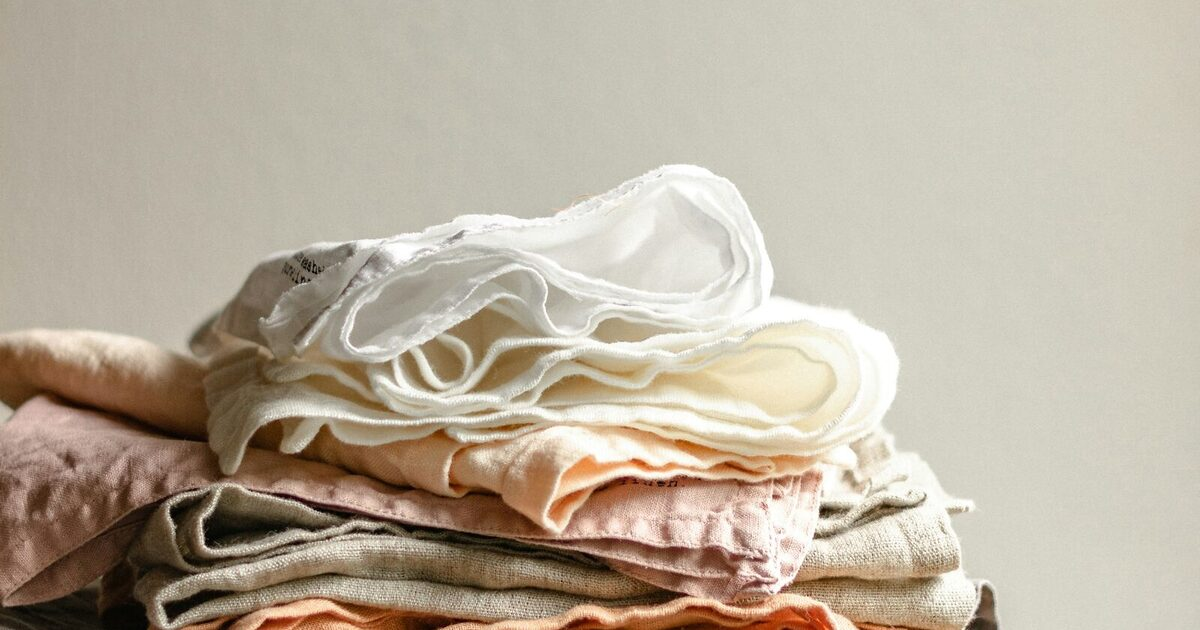
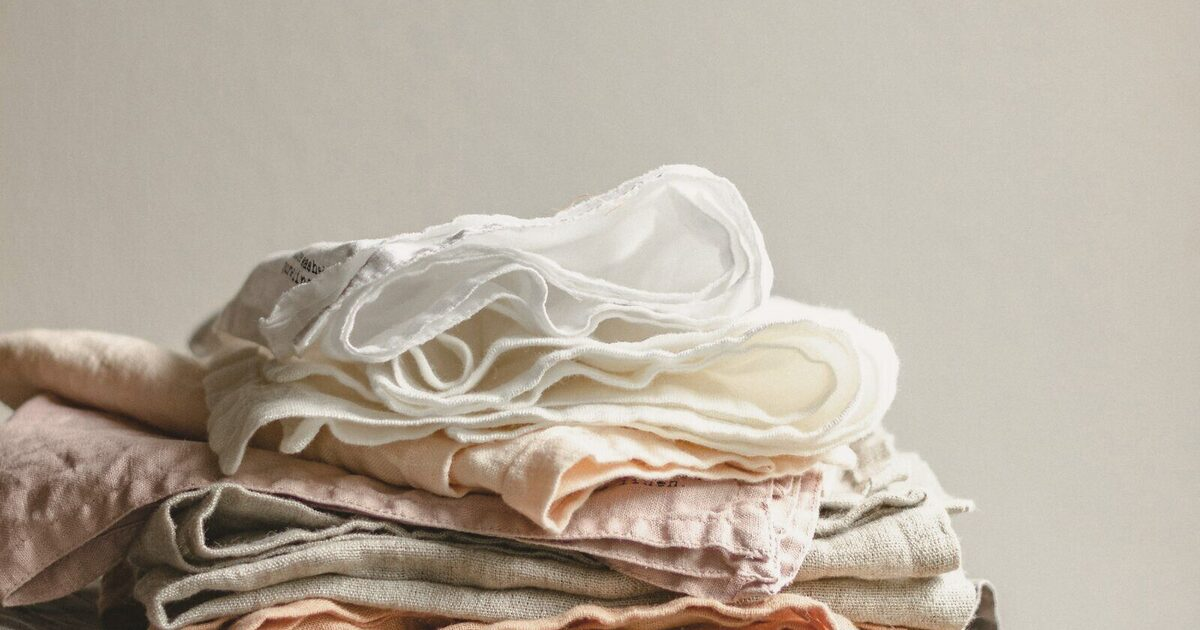
Lighter home page and one consistent photo treatment
Home: 1,134 words in 11 sections down to 462 in 6
- Hero, Meet Kayla (merged with the welcome intro), What I help with (six linked
  areas plus one line on methods), Three simple steps (pricing folded in),
  Instagram, Contact
- Cut the repeated butterfly story band, the duplicate modality list, the mothers
  checklist band, and the separate fees row (all live on their own pages)

Photos
- One shared grade on every hero (muted saturation, warm tint, softened blacks)
- One shared overlay strength on every inner-page hero

diff --git a/index.html b/index.html
@@ -22,7 +22,7 @@
 <script type="application/ld+json">
 {"@context":"https://schema.org","@type":"MedicalBusiness","name":"Mariposa Mental Wellness","description":"Trauma-informed therapy for adults in Mesa, AZ. IFS, EMDR, DBT, somatic therapy. Trauma/CPTSD, anxiety, perfectionism, ADHD, OCD, people-pleasing.","url":"https://mariposamentalwellness.com","telephone":"(480) 605-0846","priceRange":"$165","image":"https://mariposamentalwellness.com/images/og/home.jpg","address":{"@type":"PostalAddress","streetAddress":"1845 S Dobson Rd Suite 101","addressLocality":"Mesa","addressRegion":"AZ","postalCode":"85202","addressCountry":"US"},"geo":{"@type":"GeoCoordinates","latitude":33.3922,"longitude":-111.8437},"employee":{"@type":"Person","name":"Kayla Martinez","jobTitle":"Licensed Professional Counselor","description":"MS, LPC, licensed in Arizona (LPC-24196). IFS, EMDR, trauma therapy."},"sameAs":["https://www.instagram.com/mariposamentalwellness","https://www.psychologytoday.com/us/therapists/kayla-martinez-mesa-az/1091543"]}
 </script>
-<link rel="preload" as="image" href="images/hero-butterfly-wide.jpg" fetchpriority="high">
+<link rel="preload" as="image" href="images/hero-butterfly-wide-g.jpg" fetchpriority="high">
 <link rel="stylesheet" href="css/style.css">
 </head>
 <body>
@@ -76,30 +76,12 @@
   <div class="hero-inner">
     <h1 class="hero-headline reveal">You're not lost.<br>You're in the <em>in&#8209;between.</em></h1>
     <div class="hero-right reveal">
-      <p>There's a phase before the butterfly: not a caterpillar anymore, but not yet wings. That tender, uncertain middle is where the real change happens, and it's the stretch Mariposa was built for.</p>
+      <p>There's a phase before the butterfly: not a caterpillar anymore, not yet wings. That middle stretch is where real change happens, and it's what Mariposa was built for.</p>
       <a href="/contact/" class="btn-primary">Book a Free Consultation</a>
     </div>
   </div>
 </section>
 <div class="strip">Now accepting self-pay clients &nbsp;&middot;&nbsp; Mesa, AZ + Virtual &nbsp;&middot;&nbsp; <a href="tel:+14806050846">(480) 605-0846</a> &nbsp;&middot;&nbsp; Free 15-min consultation</div>
-<section id="about">
-  <div class="section">
-    <div class="about-grid">
-      <div class="about-img reveal">
-        <img width="675" height="1200" src="images/room-rust.jpg" alt="A rust-colored armchair and reading lamp in a sunlit room" loading="lazy">
-        <div class="about-img-accent"></div>
-        <div class="about-img-badge">Trauma-Informed &amp; Compassion-Led</div>
-      </div>
-      <div class="reveal">
-        <p class="eyebrow">Welcome</p>
-        <h2 class="section-title">A space where you're allowed to <em>not have it all together</em></h2>
-        <p class="body-text">Opening up to a stranger takes courage, and I don't take that trust lightly. My work is relational and grounded in IFS and trauma-informed care. We'll look underneath the patterns, figure out why they formed in the first place, and build the kind of self-trust that lets change actually stick.</p>
-        <p class="body-text">Maybe it's anxiety that won't quit. Maybe it's something from years ago you've worked hard not to look at, or a tiredness you can't put a name to. All of it is welcome here.</p>
-        <a href="/about/" class="btn-outline" style="margin-top:10px;">Meet Kayla</a>
-      </div>
-    </div>
-  </div>
-</section>
 <section class="kayla-section" id="about-kayla">
   <div class="kayla-inner">
     <div class="kayla-photo reveal">
@@ -108,124 +90,40 @@
     </div>
     <div class="reveal">
       <p class="eyebrow">Meet Your Therapist</p>
-      <h2 class="section-title">Hi, I'm Kayla</h2>
-      <p class="body-text">I became a therapist because I believe every person carries wisdom they haven't fully met yet. I see my role not as an authority but as a guide. My job isn't to fix you; it's to help you reconnect with your own wisdom and resilience.</p>
+      <h2 class="section-title">Hi, I'm Kayla.</h2>
+      <p class="body-text">I work with adults who understand their patterns perfectly well and still feel stuck inside them. Anxiety, perfectionism, old trauma, and the exhaustion of taking care of everyone else first. My job isn't to fix you. It's to help you get back in touch with the part of you that already knows the way.</p>
       <div class="kayla-quote"><p>"I primarily use IFS because I've found that most symptoms can be addressed by getting to know the part of you that's showing up, then giving that part new skills to help you cope with challenging emotions and situations."</p></div>
-      <p class="body-text">Most of my clients are adults dealing with anxiety, perfectionism, trauma, and the kind of exhaustion that comes from taking care of everyone else for too long. Some weeks we look at the past. Some weeks we practice what to do on Tuesday at 3pm when it all hits. Either way, I want you to leave feeling understood, and a little more like yourself.</p>
-      <a href="/about/" class="btn-primary" style="margin-top:8px;">More About Kayla &rarr;</a>
+      <a href="/about/" class="btn-outline">More about me</a>
     </div>
   </div>
 </section>
-<section class="story-section">
-  <div class="story-inner">
-    <div class="story-butterfly reveal" aria-hidden="true">
-      <svg width="52" height="38" viewBox="0 0 64 48" fill="#FFDAC6"><g fill-rule="evenodd"><path d="M30.9 21.2C28.4 13.9 22.4 6.3 13.2 2.9C8.3 1.1 3.9 1.9 2.8 5.1C1.8 8.1 3.7 12.8 7.9 16.6C12.6 20.8 21 23.3 30.5 24Z M28.6 20.2C23.3 14.6 16.8 9.4 9.4 6.4C16.9 10.4 23 15.4 27.7 21.1Z M27.9 22.4C21.6 19.6 14.2 17 7.6 12.4C13.8 17.6 20.8 20.9 27.3 23.3Z"/><path d="M30.5 25.8C24.6 26 17.7 28.4 14.5 33C11.5 37.4 12.4 43.3 16.7 44.3C21.8 45.5 27.7 38.5 31.1 28.2Z M29.3 27.6C24.7 29.8 19.7 34.3 16.5 40.3C20.3 35.2 25.1 30.8 29.7 28.6Z"/><path d="M31.3 12.6C30.3 8.3 28 4.6 24.8 2.3" fill="none" stroke="#FFDAC6" stroke-width="1" stroke-linecap="round"/><circle cx="24.5" cy="2.2" r="1.1"/></g><g fill-rule="evenodd" transform="matrix(-1 0 0 1 64 0)"><path d="M30.9 21.2C28.4 13.9 22.4 6.3 13.2 2.9C8.3 1.1 3.9 1.9 2.8 5.1C1.8 8.1 3.7 12.8 7.9 16.6C12.6 20.8 21 23.3 30.5 24Z M28.6 20.2C23.3 14.6 16.8 9.4 9.4 6.4C16.9 10.4 23 15.4 27.7 21.1Z M27.9 22.4C21.6 19.6 14.2 17 7.6 12.4C13.8 17.6 20.8 20.9 27.3 23.3Z"/><path d="M30.5 25.8C24.6 26 17.7 28.4 14.5 33C11.5 37.4 12.4 43.3 16.7 44.3C21.8 45.5 27.7 38.5 31.1 28.2Z M29.3 27.6C24.7 29.8 19.7 34.3 16.5 40.3C20.3 35.2 25.1 30.8 29.7 28.6Z"/><path d="M31.3 12.6C30.3 8.3 28 4.6 24.8 2.3" fill="none" stroke="#FFDAC6" stroke-width="1" stroke-linecap="round"/><circle cx="24.5" cy="2.2" r="1.1"/></g><ellipse cx="32" cy="24.6" rx="1.5" ry="11.4"/><circle cx="32" cy="12.8" r="1.7"/></svg>
+<section class="help-section" id="services">
+  <div class="help-inner">
+    <div class="help-header reveal">
+      <p class="eyebrow">What I Help With</p>
+      <h2 class="section-title">Where we can start</h2>
     </div>
-    <p class="eyebrow">The Mariposa Story</p>
-    <h2 class="section-title reveal">Before the butterfly, <br>there is <em>the cocoon</em></h2>
-    <p class="body-text reveal">Mariposa is Spanish for butterfly, but the name isn't about the transformation you can see. It's about the one you can't: that quiet, disorienting stretch when the old version of you no longer fits and the new one isn't fully formed yet.</p>
-    <p class="body-text reveal">If you're in that space right now, it doesn't mean something is broken. It means you're in the middle of change, and this practice was built for exactly that.</p>
+    <div class="help-grid">
+      <a class="help-item reveal" href="/trauma-therapy-mesa-az/"><h3>Trauma &amp; PTSD</h3><p>A single event, years of it, or both.</p></a>
+      <a class="help-item reveal" href="/services/"><h3>Anxiety &amp; perfectionism</h3><p>For the parts of you that never get to rest.</p></a>
+      <a class="help-item reveal" href="/services/"><h3>Depression &amp; self-worth</h3><p>When feeling okay seems out of reach.</p></a>
+      <a class="help-item reveal" href="/services/"><h3>People-pleasing &amp; family patterns</h3><p>Old roles that still run the show.</p></a>
+      <a class="help-item reveal" href="/services/"><h3>Life transitions</h3><p>Grief, identity shifts, and new chapters.</p></a>
+      <a class="help-item reveal" href="/therapy-for-mothers-mesa-az/"><h3>Motherhood &amp; burnout</h3><p>For the one who holds everything together.</p></a>
+    </div>
+    <p class="help-note reveal">Most of my work is rooted in <a href="/ifs-therapy-mesa-az/">Internal Family Systems (IFS)</a>, with <a href="/emdr-therapy-mesa-az/">EMDR</a>, somatic work, and DBT skills when they fit. <a href="/services/" class="help-all">See all services</a></p>
   </div>
 </section>
-<section class="services-section" id="services">
-  <div class="services-inner">
-    <div class="services-header">
-      <div class="reveal">
-        <p class="eyebrow">What We Work Through</p>
-        <h2 class="section-title">Therapy that starts <br>with <em>you</em></h2>
-      </div>
-      <div>
-        <p class="body-text reveal">Most people walk in with more than one thing tangled together. Old trauma and new burnout. Anxiety that looks a lot like perfectionism. The quiet weight of always being the strong one. We start with whatever feels heaviest.</p>
-        <a href="/services/" class="btn-outline reveal" style="display:inline-block;margin-top:10px;">Explore All Services &rarr;</a>
-      </div>
-    </div>
-    <div class="services-grid">
-      <div class="service-card reveal">
-        <svg class="service-icon" viewBox="0 0 36 36" fill="none" stroke="#7C6A0A" stroke-width="1.4" stroke-linecap="round" stroke-linejoin="round" aria-hidden="true"><path d="M18 4 L28 8 L28 18 C28 24 23 29 18 32 C13 29 8 24 8 18 L8 8 Z"/><path d="M13.5 17 C13.5 14.5 15.2 13 17 14.5 C18.8 13 20.5 14.5 20.5 17 C20.5 19 18 21.5 17 22.5 C16 21.5 13.5 19 13.5 17 Z"/></svg>
-        <h3>Trauma &amp; PTSD</h3>
-        <p>Healing from complex trauma, PTSD, and CPTSD using evidence-based modalities in a safe, paced environment.</p>
-      </div>
-      <div class="service-card reveal">
-        <svg class="service-icon" viewBox="0 0 36 36" fill="none" stroke="#7C6A0A" stroke-width="1.4" stroke-linecap="round" aria-hidden="true"><circle cx="18" cy="18" r="12"/><path d="M18 10 L18 18 L24 21"/><circle cx="18" cy="18" r="2" fill="#7C6A0A"/></svg>
-        <h3>Anxiety &amp; Perfectionism</h3>
-        <p>Understanding the parts of you that drive perfectionism, people-pleasing, and fawning, then helping them find new roles.</p>
-      </div>
-      <div class="service-card reveal">
-        <svg class="service-icon" viewBox="0 0 36 36" fill="none" stroke="#7C6A0A" stroke-width="1.4" stroke-linecap="round" aria-hidden="true"><path d="M18 6 C12 6 7 11 7 17 C7 20 8.5 22.5 10.5 24.5 L10 30 L15.5 27 C16.3 27.2 17.1 27.3 18 27.3 C24 27.3 29 22.5 29 17 C29 11 24 6 18 6Z"/><path d="M13 17 L17 21 L23 13"/></svg>
-        <h3>Depression &amp; Self-Worth</h3>
-        <p>Rebuilding a sense of self, purpose, and worthiness when depression has made those things feel out of reach.</p>
-      </div>
-      <div class="service-card reveal">
-        <svg class="service-icon" viewBox="0 0 36 36" fill="none" stroke="#7C6A0A" stroke-width="1.4" stroke-linecap="round" stroke-linejoin="round" aria-hidden="true"><circle cx="18" cy="13" r="9"/><line x1="18" y1="22" x2="18" y2="32"/><line x1="13" y1="27" x2="23" y2="27"/></svg>
-        <h3>Women's Issues</h3>
-        <p>Focused on the experiences unique to women: identity, relationships, roles, and reclaiming yourself.</p>
-      </div>
-      <div class="service-card reveal">
-        <svg class="service-icon" viewBox="0 0 36 36" fill="none" stroke="#7C6A0A" stroke-width="1.4" stroke-linecap="round" aria-hidden="true"><path d="M6 28 C6 20 10 14 18 10 C26 14 30 20 30 28"/><path d="M18 10 L18 4"/><path d="M14 6 C14 6 16 8 18 8 C20 8 22 6 22 6"/></svg>
-        <h3>Life Transitions</h3>
-        <p>Finding your footing through the in-between moments: grief, identity shifts, and changing relationships.</p>
-      </div>
-      <div class="service-card reveal">
-        <svg class="service-icon" viewBox="0 0 36 36" fill="none" stroke="#7C6A0A" stroke-width="1.4" stroke-linecap="round" aria-hidden="true"><circle cx="12" cy="13" r="4"/><circle cx="24" cy="13" r="4"/><path d="M4 30 C4 25 7.5 22 12 22"/><path d="M32 30 C32 25 28.5 22 24 22"/><path d="M12 22 C12 22 15 26 18 26 C21 26 24 22 24 22"/></svg>
-        <h3>Family &amp; Relationships</h3>
-        <p>Exploring family of origin patterns, codependency, and how your earliest attachments show up in your life today.</p>
-      </div>
-    </div>
-  </div>
-</section>
-<section class="niche-section" id="mothers">
-  <div class="niche-inner">
-    <div class="reveal">
-      <p class="eyebrow">A Special Focus</p>
-      <h2 class="section-title">For the mother who's <br>lost herself <em>in the giving</em></h2>
-      <p class="body-text">You've spent years being everything to everyone. The caretaker. The one who holds it all together. Maybe you stepped into that role long before you became a mother: the eldest daughter, the responsible one, the child who kept the family steady.</p>
-      <p class="body-text">Now you're burning out, and the guilt of admitting that feels like one more thing to carry. This is a space built for you.</p>
-      <ul class="niche-checklist">
-        <li>Burnout and emotional exhaustion in motherhood</li>
-        <li>Eldest / oldest daughter syndrome</li>
-        <li>Loss of identity beyond caregiving roles</li>
-        <li>Postpartum anxiety and depression</li>
-        <li>Breaking generational patterns</li>
-        <li>Reclaiming your sense of self</li>
-      </ul>
-      <a href="/therapy-for-mothers-mesa-az/" class="btn-primary">You deserve support too</a>
-    </div>
-    <div class="niche-img reveal">
-      <img width="960" height="1200" src="images/linens-crate.jpg" alt="Therapy for mothers in Mesa, AZ at Mariposa Mental Wellness" loading="lazy">
-    </div>
-  </div>
-</section>
-<section id="approach" style="background:var(--cream);">
-  <div class="approach-section">
-    <div class="approach-grid">
-      <div class="approach-sticky">
-        <p class="eyebrow reveal">How We Work</p>
-        <h2 class="section-title reveal">The tools I reach for</h2>
-        <p class="body-text reveal">Every modality I use is chosen for a reason and adapted to fit you, not the other way around.</p>
-        <a href="/services/" class="btn-outline reveal" style="display:inline-block;margin-top:24px;">Full Approach &rarr;</a>
-      </div>
-      <ul class="modality-list">
-        <li class="modality-item reveal"><div class="modality-num">01</div><h3>Internal Family Systems (IFS)</h3><p>The core of my work. IFS helps us get curious about the different "parts" of you: the protectors, the inner critic, the exhausted caregiver. We meet them with compassion instead of judgment, and when parts feel understood, they stop working against you.</p></li>
-        <li class="modality-item reveal"><div class="modality-num">02</div><h3>EMDR</h3><p>Eye Movement Desensitization and Reprocessing helps the brain process traumatic memories that feel "stuck," lowering their emotional charge so they can be integrated rather than avoided.</p></li>
-        <li class="modality-item reveal"><div class="modality-num">03</div><h3>Somatic Therapy</h3><p>Trauma lives in the body. Somatic approaches help you notice and work with physical sensations, bringing the nervous system into the healing process alongside the mind.</p></li>
-        <li class="modality-item reveal"><div class="modality-num">04</div><h3>DBT &amp; Coping Skills</h3><p>Practical tools for managing overwhelming emotions, improving relationships, and building distress tolerance.</p></li>
-        <li class="modality-item reveal"><div class="modality-num">05</div><h3>Attachment-Based &amp; Relational</h3><p>Exploring how your earliest relationships shaped your nervous system and your sense of worthiness, then building something more secure from here.</p></li>
-      </ul>
-    </div>
-  </div>
-</section>
-
 <section class="process-section">
   <div class="process-inner">
     <div class="process-header reveal">
       <p class="eyebrow">Getting Started</p>
-      <h2 class="section-title">What to expect</h2>
+      <h2 class="section-title">Three simple steps</h2>
     </div>
-    <div class="process-steps">
-      <div class="process-step reveal"><div class="step-num">01</div><h3>Free Consultation</h3><p>A 15-minute call to see if we're a good fit. No pressure, no commitment, just a conversation.</p></div>
-      <div class="process-step reveal"><div class="step-num">02</div><h3>First Session</h3><p>We get to know each other. You share what brought you here; I share how we might work together.</p></div>
-      <div class="process-step reveal"><div class="step-num">03</div><h3>Ongoing Work</h3><p>Weekly or every other week, in person or virtual, with evening times available. We adjust the rhythm as life changes.</p></div>
-      <div class="process-step reveal"><div class="step-num">04</div><h3>Real Change</h3><p>Not overnight, but real. You'll start to notice shifts, inside and in how you move through the world.</p></div>
+    <div class="process-steps process-steps--three">
+      <div class="process-step reveal"><div class="step-num">01</div><h3>A free 15-minute call</h3><p>We talk about what's going on and whether I'm the right fit. No pressure, no paperwork.</p></div>
+      <div class="process-step reveal"><div class="step-num">02</div><h3>Your first session</h3><p>$165 for 50 minutes, in my Mesa office or by video anywhere in Arizona.</p></div>
+      <div class="process-step reveal"><div class="step-num">03</div><h3>Ongoing work</h3><p>Weekly or every other week, evenings available. Self-pay, with superbills for out-of-network reimbursement. HSA and FSA cards work too.</p></div>
     </div>
   </div>
 </section>
@@ -235,7 +133,7 @@
       <div class="reveal">
         <p class="eyebrow">Join the Community</p>
         <h2 class="section-title">A therapist who <em>actually</em> <br>talks about it</h2>
-        <p class="body-text">I share real, unfiltered content about anxiety, trauma, IFS, perfectionism, and everything in between, because mental health education shouldn't feel clinical.</p>
+        <p class="body-text">Real, unfiltered posts on anxiety, trauma, IFS, and perfectionism, because mental health education shouldn't feel clinical.</p>
         <p class="ig-meta"><span><strong>54K</strong> followers</span><span><strong>1,100+</strong> posts</span></p>
         <a href="https://www.instagram.com/mariposamentalwellness" target="_blank" rel="noopener" class="btn-primary">Follow on Instagram</a>
       </div>
@@ -260,18 +158,11 @@
     </div>
   </div>
 </section>
-<section class="fees-section" id="fees">
-  <div class="fees-inner">
-    <div class="fee-card reveal"><div class="fee-num">$165</div><h3>Individual Session</h3><p>50-minute sessions, in-person or virtual throughout Arizona. Flexible weekday and evening availability.</p></div>
-    <div class="fee-card reveal"><div class="fee-num">Free</div><h3>15-Min Consultation</h3><p>No cost, no pressure. Just a conversation to see if we're the right fit before you commit to anything.</p></div>
-    <div class="fee-card reveal"><div class="fee-num">HSA/FSA</div><h3>Cards Accepted</h3><p>Self-pay practice. A superbill is available for out-of-network reimbursement.</p></div>
-  </div>
-</section>
 <section class="contact-section" id="contact">
   <div class="contact-inner">
     <div class="reveal">
       <p class="eyebrow">Get In Touch</p>
-      <h2 class="section-title">Ready to take <br>the <em>first step?</em></h2>
+      <h2 class="section-title">Ready when <em>you are</em></h2>
       <p class="body-text">Reaching out is usually the hardest part. Send a note, even a short one, and I'll get back to you within one business day.</p>
       <div class="contact-info" style="margin-top:36px;">
         <div class="contact-detail"><div class="contact-icon" aria-hidden="true"><svg width="18" height="18" viewBox="0 0 24 24" fill="none" stroke="var(--burnt)" stroke-width="1.8" stroke-linecap="round"><path d="M22 16.92v3a2 2 0 01-2.18 2 19.79 19.79 0 01-8.63-3.07A19.5 19.5 0 014.69 10.5 19.36 19.36 0 011.64 2 2 2 0 013.62 0h3a2 2 0 012 1.72 12.84 12.84 0 00.7 2.81 2 2 0 01-.45 2.11L7.91 7.91a16 16 0 006.29 6.29l.95-.96a2 2 0 012.11-.45 12.84 12.84 0 002.81.7A2 2 0 0122 15.42v1.5z"/></svg></div><div><p class="cd-label">Phone</p><a href="tel:+14806050846">(480) 605-0846</a></div></div>

diff --git a/css/style.css b/css/style.css
@@ -110,7 +110,7 @@ nav.scrolled { padding:14px 60px; box-shadow:0 2px 24px rgba(44,36,22,0.08); }
 /* ── HERO — home full ── */
 .hero {
   min-height:100vh;
-  background:linear-gradient(to bottom, rgba(44,36,22,0.04) 0%, rgba(44,36,22,0.14) 42%, rgba(44,36,22,0.66) 100%), url('../images/hero-butterfly-wide.jpg') center 45%/cover no-repeat;
+  background:linear-gradient(to bottom, rgba(44,36,22,0.04) 0%, rgba(44,36,22,0.14) 42%, rgba(44,36,22,0.66) 100%), url('../images/hero-butterfly-wide-g.jpg') center 45%/cover no-repeat;
   display:flex; align-items:flex-end;
   padding:0 60px 90px;
 }
@@ -124,20 +124,20 @@ nav.scrolled { padding:14px 60px; box-shadow:0 2px 24px rgba(44,36,22,0.08); }
 .page-hero {
   height:460px;
   /* diagonal wash keeps the top-left headline crisp over any photo */
-  background:linear-gradient(100deg, rgba(38,29,17,0.80) 0%, rgba(38,29,17,0.5) 48%, rgba(38,29,17,0.34) 100%), url('../images/hero-butterfly-wide.jpg') center 40%/cover no-repeat;
+  background:linear-gradient(100deg, rgba(38,29,17,0.80) 0%, rgba(38,29,17,0.5) 48%, rgba(38,29,17,0.34) 100%), url('../images/hero-butterfly-wide-g.jpg') center 40%/cover no-repeat;
   display:flex; align-items:flex-start;
   padding:120px 60px 0;
   box-sizing:border-box;
 }
 /* Distinct, theme-matched imagery per page */
-.page-hero.hero-about   { background-image:linear-gradient(100deg, rgba(38,29,17,0.72) 0%, rgba(38,29,17,0.42) 52%, rgba(38,29,17,0.26) 100%), url('../images/hero-niches.jpg'); background-position:center 50%; }
-.page-hero.hero-services{ background-image:linear-gradient(100deg, rgba(38,29,17,0.68) 0%, rgba(38,29,17,0.4) 50%, rgba(38,29,17,0.24) 100%), url('../images/hero-armchair.jpg'); background-position:center 45%; }
-.page-hero.hero-mothers { background-image:linear-gradient(100deg, rgba(38,29,17,0.84) 0%, rgba(38,29,17,0.6) 50%, rgba(38,29,17,0.42) 100%), url('../images/hero-linens.jpg'); background-position:center 60%; }
-.page-hero.hero-path    { background-image:linear-gradient(100deg, rgba(38,29,17,0.72) 0%, rgba(38,29,17,0.42) 55%, rgba(38,29,17,0.3) 100%), url('../images/hero-curtains.jpg'); background-position:center 50%; }
-.page-hero.hero-journal { background-image:linear-gradient(100deg, rgba(38,29,17,0.84) 0%, rgba(38,29,17,0.6) 50%, rgba(38,29,17,0.42) 100%), url('../images/hero-vessels.jpg'); background-position:70% 60%; }
-.page-hero.hero-leaves  { background-image:linear-gradient(100deg, rgba(38,29,17,0.74) 0%, rgba(38,29,17,0.44) 52%, rgba(38,29,17,0.3) 100%), url('../images/hero-palm.jpg'); background-position:center 50%; }
-.page-hero.hero-contact { background-image:linear-gradient(100deg, rgba(38,29,17,0.72) 0%, rgba(38,29,17,0.42) 52%, rgba(38,29,17,0.28) 100%), url('../images/hero-sheer.jpg'); background-position:center 50%; }
-.page-hero.hero-faq     { background-image:linear-gradient(100deg, rgba(38,29,17,0.84) 0%, rgba(38,29,17,0.6) 50%, rgba(38,29,17,0.42) 100%), url('../images/hero-arches.jpg'); background-position:center 55%; }
+.page-hero.hero-about   { background-image:linear-gradient(100deg, rgba(38,29,17,0.74) 0%, rgba(38,29,17,0.46) 50%, rgba(38,29,17,0.28) 100%), url('../images/hero-niches-g.jpg'); background-position:center 50%; }
+.page-hero.hero-services{ background-image:linear-gradient(100deg, rgba(38,29,17,0.74) 0%, rgba(38,29,17,0.46) 50%, rgba(38,29,17,0.28) 100%), url('../images/hero-armchair-g.jpg'); background-position:center 45%; }
+.page-hero.hero-mothers { background-image:linear-gradient(100deg, rgba(38,29,17,0.74) 0%, rgba(38,29,17,0.46) 50%, rgba(38,29,17,0.28) 100%), url('../images/hero-linens-g.jpg'); background-position:center 60%; }
+.page-hero.hero-path    { background-image:linear-gradient(100deg, rgba(38,29,17,0.74) 0%, rgba(38,29,17,0.46) 50%, rgba(38,29,17,0.28) 100%), url('../images/hero-curtains-g.jpg'); background-position:center 50%; }
+.page-hero.hero-journal { background-image:linear-gradient(100deg, rgba(38,29,17,0.74) 0%, rgba(38,29,17,0.46) 50%, rgba(38,29,17,0.28) 100%), url('../images/hero-vessels-g.jpg'); background-position:70% 60%; }
+.page-hero.hero-leaves  { background-image:linear-gradient(100deg, rgba(38,29,17,0.74) 0%, rgba(38,29,17,0.46) 50%, rgba(38,29,17,0.28) 100%), url('../images/hero-palm-g.jpg'); background-position:center 50%; }
+.page-hero.hero-contact { background-image:linear-gradient(100deg, rgba(38,29,17,0.74) 0%, rgba(38,29,17,0.46) 50%, rgba(38,29,17,0.28) 100%), url('../images/hero-sheer-g.jpg'); background-position:center 50%; }
+.page-hero.hero-faq     { background-image:linear-gradient(100deg, rgba(38,29,17,0.74) 0%, rgba(38,29,17,0.46) 50%, rgba(38,29,17,0.28) 100%), url('../images/hero-arches-g.jpg'); background-position:center 55%; }
 .page-hero-inner { max-width:1200px; width:100%; }
 .breadcrumb { font-size:0.68rem; letter-spacing:0.18em; text-transform:uppercase; color:rgba(255,255,255,0.65); margin-bottom:16px; }
 .breadcrumb a { color:rgba(255,255,255,0.65); transition:color 0.2s; }
@@ -530,7 +530,7 @@ a:focus-visible, button:focus-visible { outline:2px solid var(--burnt); outline-
   .nav-links { display:none; }
   .hamburger { display:flex; }
 
-  .hero { padding:0 20px 110px; min-height:100svh; background:linear-gradient(to bottom, rgba(44,36,22,0.2) 0%, rgba(44,36,22,0.5) 40%, rgba(44,36,22,0.88) 100%), url('../images/hero-butterfly-mobile.jpg') center top/cover no-repeat; }
+  .hero { padding:0 20px 110px; min-height:100svh; background:linear-gradient(to bottom, rgba(44,36,22,0.2) 0%, rgba(44,36,22,0.5) 40%, rgba(44,36,22,0.88) 100%), url('../images/hero-butterfly-mobile-g.jpg') center top/cover no-repeat; }
   .hero-inner { grid-template-columns:1fr; gap:28px; }
   .hero-headline { font-size:clamp(2.2rem,9vw,3.2rem); }
   .hero-right { border-left:none; padding-left:0; border-top:1px solid rgba(255,218,198,0.35); padding-top:24px; }
@@ -676,7 +676,7 @@ a:focus-visible, button:focus-visible { outline:2px solid var(--burnt); outline-
 .form-status code { background:rgba(0,0,0,0.06); padding:1px 5px; border-radius:3px; font-size:0.82em; }
 
 /* ── Blog ── */
-.hero-blog { background:linear-gradient(100deg, rgba(38,29,17,0.74) 0%, rgba(38,29,17,0.44) 52%, rgba(38,29,17,0.3) 100%), url('../images/blog/journal-morning.jpg') center 45%/cover no-repeat; }
+.hero-blog { background:linear-gradient(100deg, rgba(38,29,17,0.74) 0%, rgba(38,29,17,0.44) 52%, rgba(38,29,17,0.3) 100%), url('../images/blog/journal-morning-g.jpg') center 45%/cover no-repeat; }
 .blog-grid { display:grid; grid-template-columns:repeat(auto-fill,minmax(320px,1fr)); gap:34px; }
 .blog-card { display:flex; flex-direction:column; background:#fff; border-radius:4px; overflow:hidden; text-decoration:none; box-shadow:0 2px 14px rgba(44,36,22,0.06); transition:transform .25s, box-shadow .25s; }
 .blog-card:hover { transform:translateY(-4px); box-shadow:0 12px 30px rgba(44,36,22,0.12); }
@@ -803,3 +803,22 @@ p, li { text-wrap:pretty; }
   .hero-inner { grid-template-columns:minmax(0,420px); gap:28px; }
   .hero-right { padding-left:0; border-left:none; border-top:1px solid rgba(255,218,198,0.45); padding-top:26px; }
 }
+
+/* ── Home: lighter structure ── */
+.help-section { padding:110px 60px; background:var(--cream); }
+.help-inner { max-width:1100px; margin:0 auto; }
+.help-header { margin-bottom:44px; }
+.help-grid { display:grid; grid-template-columns:repeat(3,minmax(0,1fr)); gap:0 56px; }
+.help-item { display:block; padding:26px 0 30px; border-top:1px solid rgba(124,106,10,0.18); transition:border-color .25s; }
+.help-item h3 { font-family:'Cormorant Garamond',serif; font-size:1.45rem; font-weight:500; color:var(--dark); margin-bottom:6px; transition:color .25s; }
+.help-item p { font-size:0.9rem; line-height:1.7; color:var(--mid); }
+.help-item:hover { border-top-color:var(--burnt); }
+.help-item:hover h3 { color:var(--burnt); }
+.help-note { margin-top:40px; max-width:720px; font-size:0.97rem; line-height:1.85; color:var(--mid); }
+.help-note a { color:var(--dark); border-bottom:1px solid rgba(124,106,10,0.35); }
+.help-note a:hover { color:var(--burnt); border-color:var(--burnt); }
+.help-note .help-all { margin-left:6px; color:var(--burnt); border-color:var(--burnt); white-space:nowrap; }
+.process-steps--three { grid-template-columns:repeat(3,1fr); }
+.kayla-section .btn-outline { margin-top:8px; }
+@media (max-width:1024px) { .help-section { padding:80px 30px; } .help-grid { grid-template-columns:repeat(2,minmax(0,1fr)); } }
+@media (max-width:767px) { .help-section { padding:64px 20px; } .help-grid { grid-template-columns:1fr; } .process-steps--three { grid-template-columns:1fr; } }
